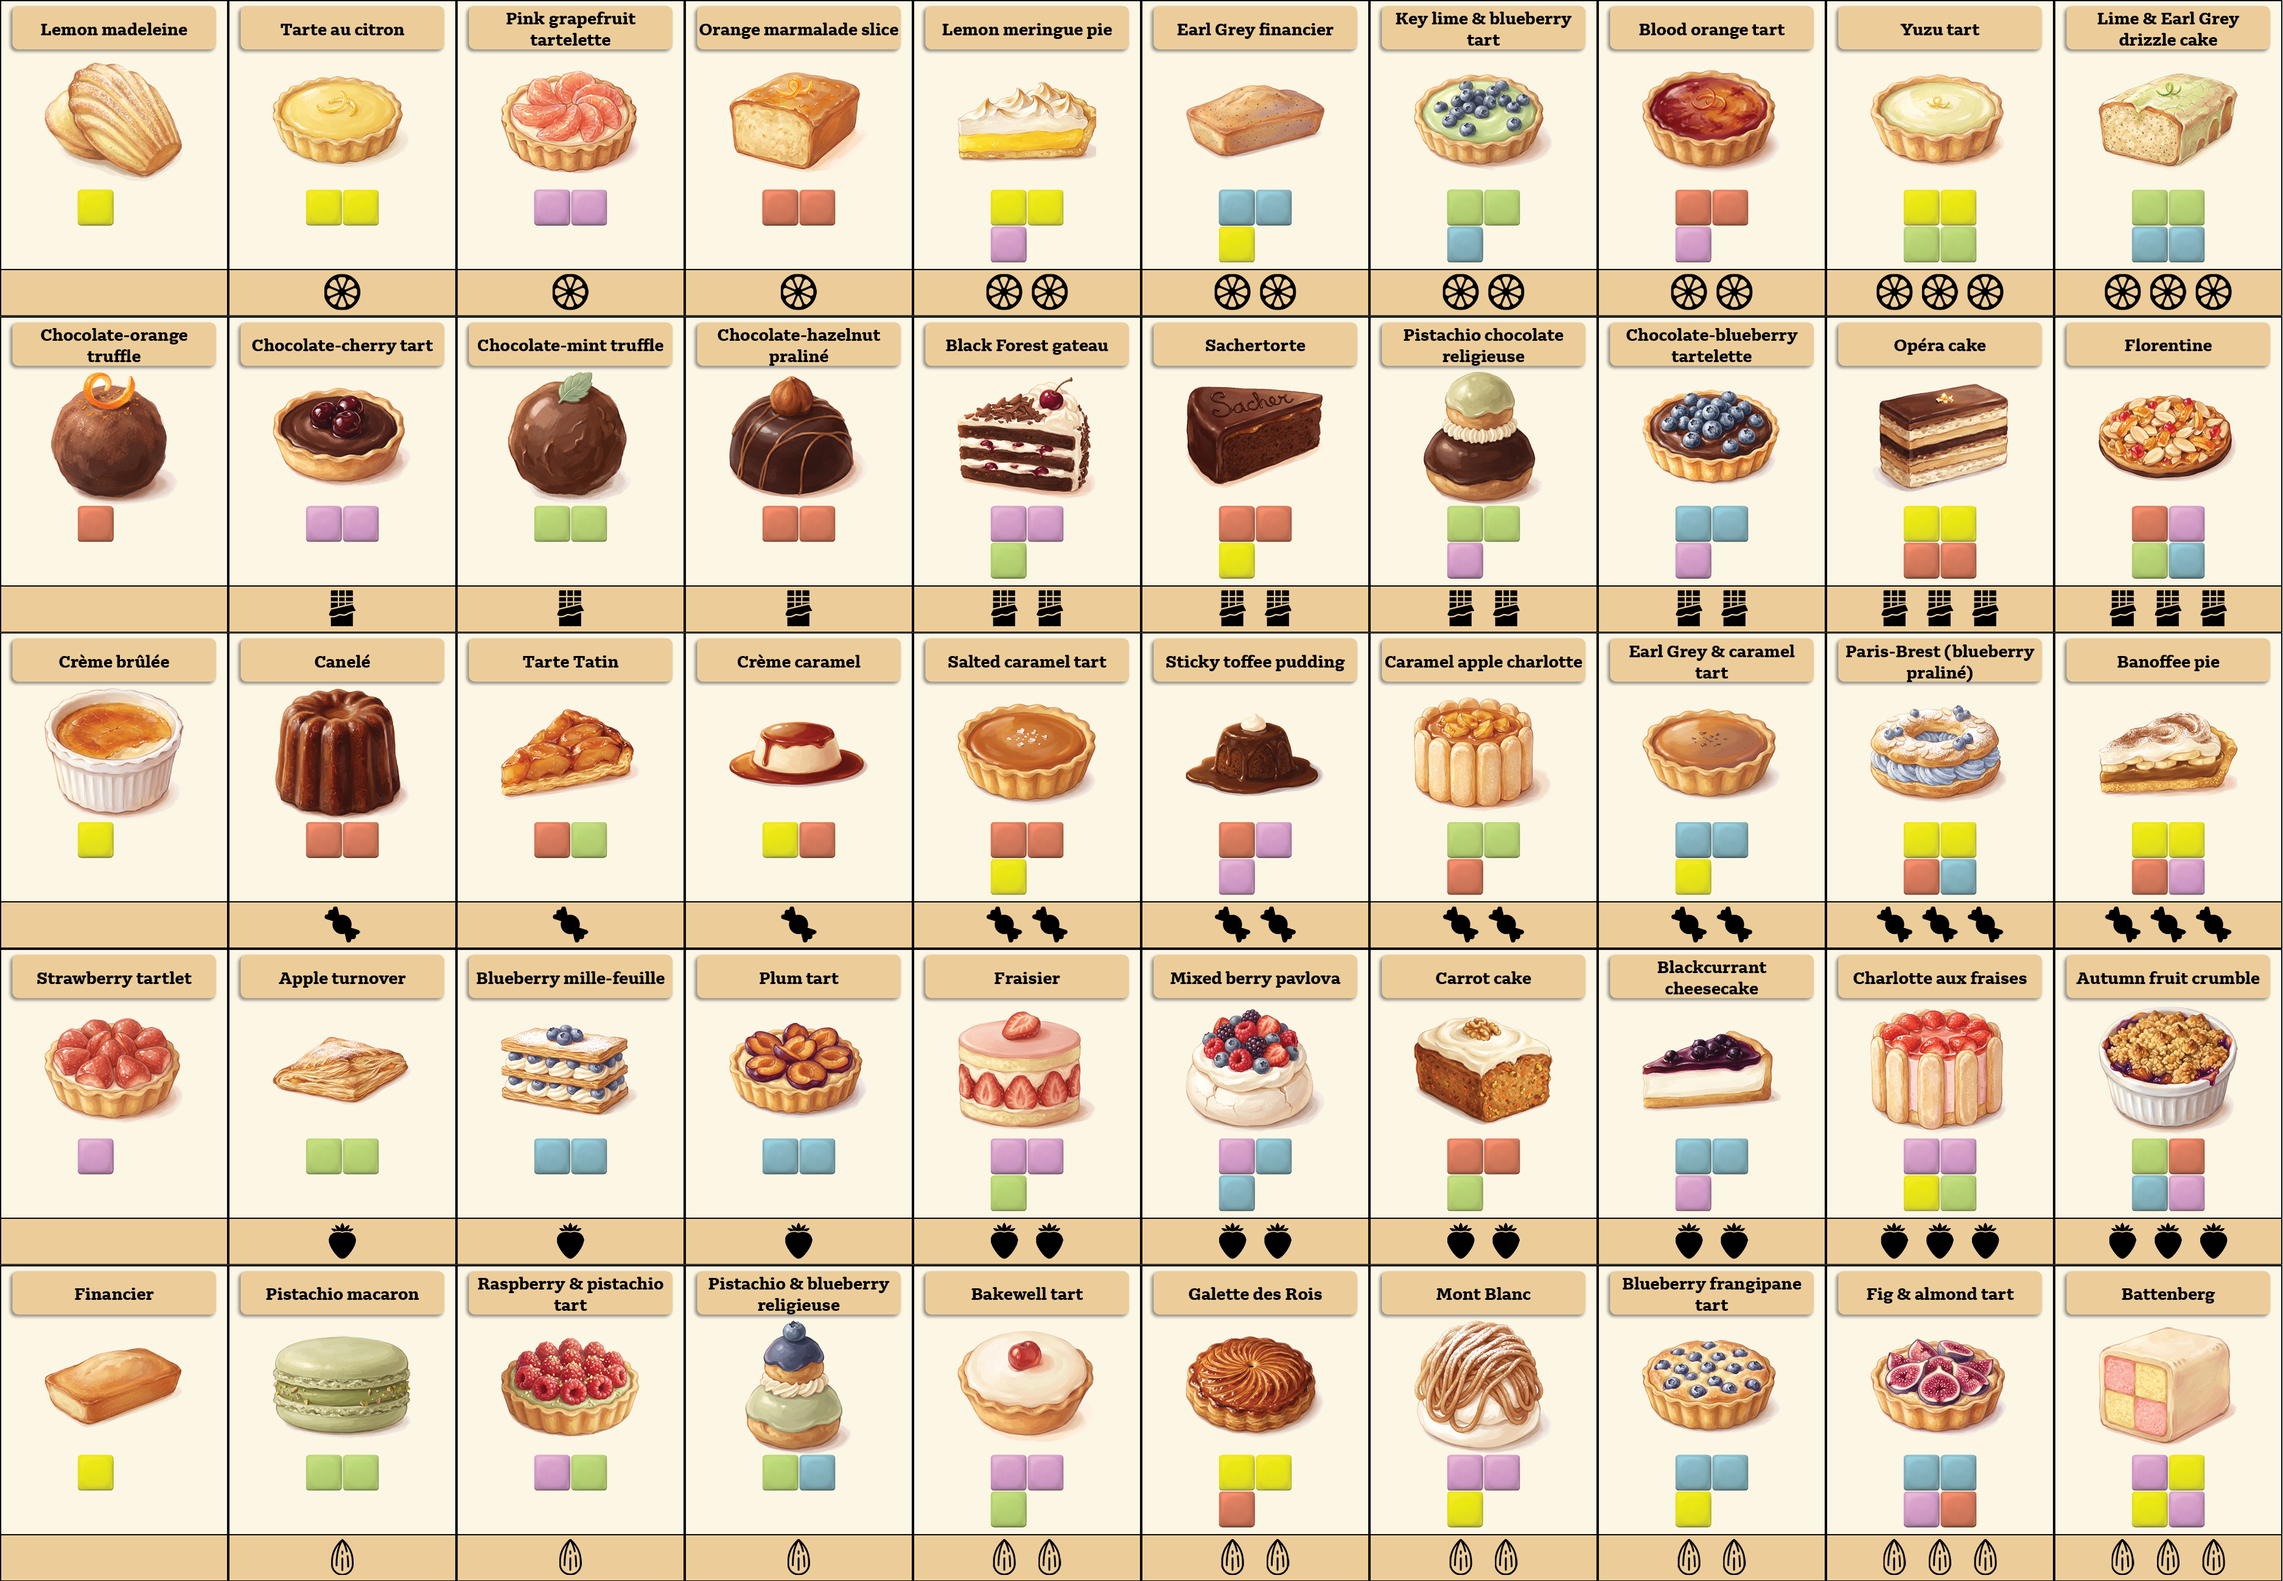
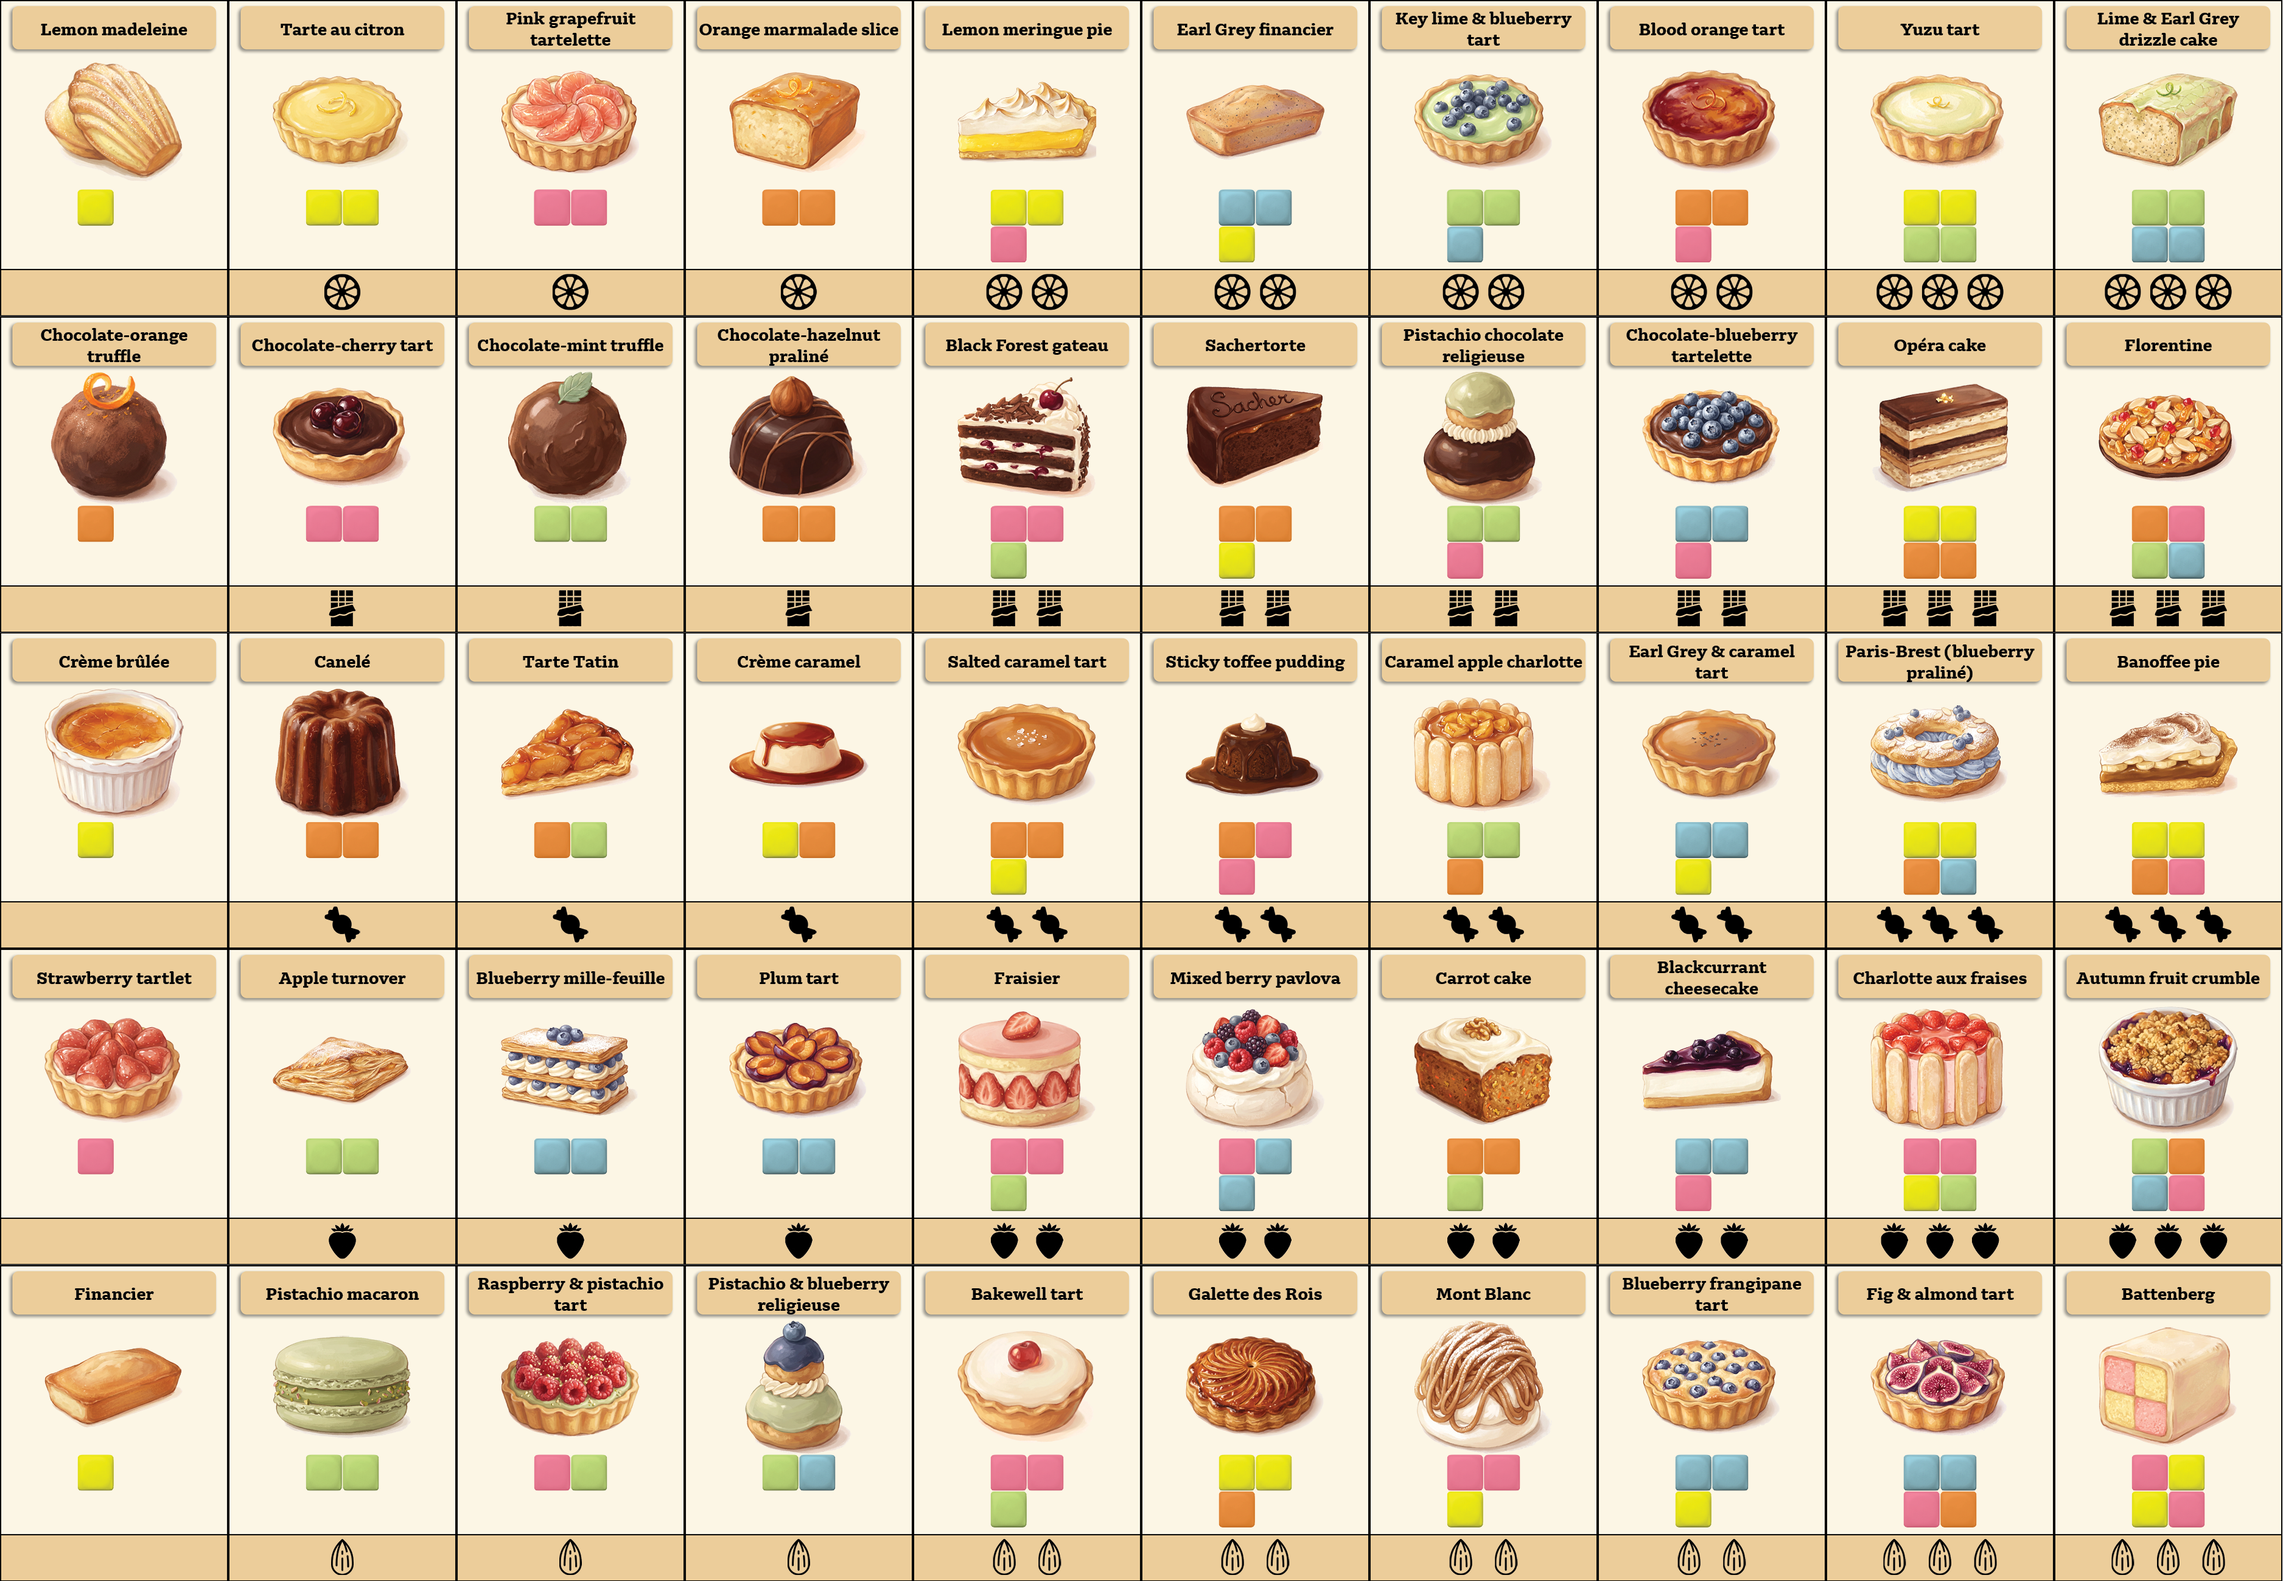
new rules

diff --git a/src/ui/board.js b/src/ui/board.js
@@ -17,6 +17,11 @@ export function showRulesModal() {
         </div>
 
         <div class="ft-rules__section">
+          <div class="ft-rules__section-title">Cupcakes</div>
+          <div class="ft-rules__text">You start the game with 5 cupcakes. You may spend them during your turn to move tiles on your board. Each move costs 1 cupcake. At game end, each unspent cupcake is worth 1 point.</div>
+        </div>
+
+        <div class="ft-rules__section">
           <div class="ft-rules__section-title">Your Turn (4 Steps)</div>
 
           <div class="ft-rules__step">
@@ -38,6 +43,11 @@ export function showRulesModal() {
           </div>
 
           <div class="ft-rules__step">
+            <div class="ft-rules__step-title">3.5 Move Tiles (Optional)</div>
+            <div class="ft-rules__text">You may spend a cupcake to move one tile from its current cell to any other empty cell on your board. You can do this during any phase of your turn.</div>
+          </div>
+
+          <div class="ft-rules__step">
             <div class="ft-rules__step-title">4. Refill Market</div>
             <div class="ft-rules__text">If 6 or fewer tiles remain on the market, refill from the bag.</div>
           </div>
@@ -47,7 +57,9 @@ export function showRulesModal() {
           <div class="ft-rules__section-title">Scoring</div>
           <div class="ft-rules__text">At game end, for each ingredient:</div>
           <div class="ft-rules__text"><strong>(symbols on your cards) × (tiles in your scoring pile)</strong></div>
-          <div class="ft-rules__text">Sum all five ingredients for your final score.</div>
+          <div class="ft-rules__text">Sum all five ingredients for your base score.</div>
+          <div class="ft-rules__text"><strong>Cupcakes:</strong> Add 1 point for each remaining cupcake.</div>
+          <div class="ft-rules__text">Your final score = base score + cupcakes.</div>
         </div>
 
         <div class="ft-rules__section">
@@ -1174,7 +1186,7 @@ function updateStats(gameState) {
                     ${!canUseCupcakes ? 'disabled' : ''}>
               <img src="images/cupcake.png" class="ft-cupcake-icon" alt="cupcake" />
             </button>
-          `).join('') : '<span class="ft-cupcake-empty">No cupcakes yet. Claim cards to earn them!</span>'}
+          `).join('') : '<span class="ft-cupcake-empty">You have no cupcakes left</span>'}
         </div>
         <span class="ft-cupcake-points">${cupcakeCount} ${cupcakeCount === 1 ? 'point' : 'points'} at end game</span>
       </div>

diff --git a/src/engine/game.js b/src/engine/game.js
@@ -12,7 +12,7 @@ export function createGame(playerConfigs, statsCollector = null) {
     board: Array(BOARD_SIZE * BOARD_SIZE).fill(null),
     scoringPile: [],
     claimedCards: [],
-    cupcakes: 0,
+    cupcakes: 5,
     score: 0,
   }));
 
@@ -26,7 +26,9 @@ export function createGame(playerConfigs, statsCollector = null) {
   }
 
   const { gameDeck, cardMarket } = initGameDeck(playerCount);
-  const cardsNeededToEnd = TOTAL_GAME_CARDS;
+  let cardsNeededToEnd = TOTAL_GAME_CARDS;
+  if (playerCount === 3) cardsNeededToEnd = 24;
+  else if (playerCount === 4) cardsNeededToEnd = 32;
 
   if (statsCollector) {
     for (const card of cardMarket) {
@@ -204,7 +206,6 @@ export function claim(gameState, cardId, removedBoardIndex) {
   player.scoringPile.push(player.board[removedBoardIndex]);
   player.board[removedBoardIndex] = { type: 'blocked' };
   player.claimedCards.push(cardId);
-  player.cupcakes++;
 
   if (gameState.statsCollector) {
     gameState.statsCollector.recordCardClaimed(cardId, gameState.stats.turnsPlayed);

diff --git a/CLAUDE.md b/CLAUDE.md
@@ -109,6 +109,12 @@ of its valid orientations.
 - Tiles may be placed anywhere on the grid — no adjacency requirements
 - Each player also maintains a personal **scoring pile** of removed tiles beside their board
 
+### Cupcakes (5 per player)
+- Each player starts the game with exactly **5 cupcakes**
+- Cupcakes may be **spent to move a single tile** on your personal board from one empty cell to another (one cupcake per move)
+- Cupcakes are spent, never earned during play
+- At end game, each remaining cupcake is worth **1 VP**
+
 ### Central Market Board (1 total)
 - 6×6 recessed grid (36 cells)
 - Row and column coordinates printed on edges for clear sweep communication
@@ -165,6 +171,11 @@ This bonus does not chain — it triggers at most once per turn.
      refilling the card market back to 4 face-up cards
 - You may only claim **1 card per turn**, even if multiple patterns are complete
 
+### Step 3.5 — Move Tiles (optional, using cupcakes)
+- At any point during your turn (during sweep, place, or claim phases), you may spend a **cupcake** to move one tile on your personal board from its current cell to any other empty cell
+- You may move multiple tiles in a single turn if you have cupcakes to spend
+- Each move costs exactly 1 cupcake
+
 ### Step 4 — Refill Market Board
 - Count tiles remaining on the 6×6 market board
 - If **6 or fewer tiles** remain, dump tiles from the bag into the recesses to refill
@@ -220,8 +231,9 @@ Sum all five ingredients for your final total.
 (2× Almond) = 4 almond symbols total. Your scoring pile contains 3 tiles with
 the almond symbol. Almond score: 4 × 3 = 12 VP.
 
-There is no flat VP anywhere in the game. All scoring comes from card symbols
-multiplied by removed tiles.
+**Cupcakes:** Add 1 VP for each remaining cupcake (unspent).
+
+Final score = (ingredient multiplications summed) + (remaining cupcakes).
 
 The physical process at end game: sort tucked cards into 5 ingredient groups,
 count symbols in each. Sort scoring pile tiles into 5 ingredient groups, count
